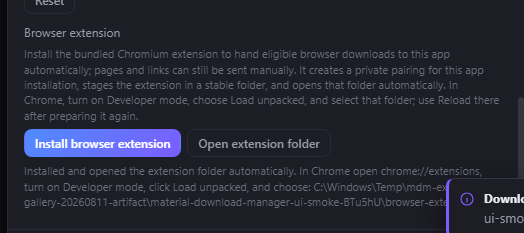
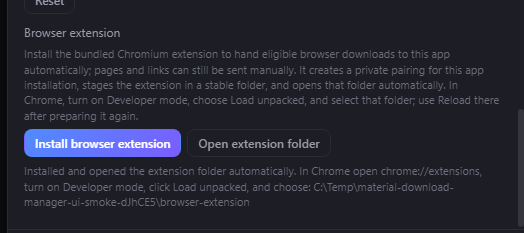
Refresh browser extension install capture
The browser-extension install/reveal HuiShot now comes from the final 42-check hidden-desktop run, with a generic temporary path instead of a user profile path. README, HANDOFF, CHANGELOG, and the captured artifact carry the same 524×233 hash so the install card is no longer an old photograph wearing a new caption.

廣東話：browser extension 安裝卡終於用返最新真機相，畫面入面只見通用 temp 路徑，唔會偷帶使用者名字；文件同 PNG hash 而家一齊對得上，舊相正式收工。

Changed region(s): [[0.0305, 0.7511, 1.0, 1.0], [0.9771, 0.4206, 1.0, 0.4807]]

diff --git a/HANDOFF.md b/HANDOFF.md
@@ -27,6 +27,13 @@ PNG bytes emitted by that run. Six are 1100×900 and the narrow builder frame is
[2 lines of base64/hex data omitted]
 
+The same landed smoke run also recaptured the browser-extension install/reveal
+card at [`docs/screenshots/browser-extension/settings-install-and-reveal.png`](docs/screenshots/browser-extension/settings-install-and-reveal.png).
+It is a 524×233 PNG with SHA-256
[1 lines of base64/hex data omitted]
+temporary staging path was rooted at a generic `C:\Temp` folder so no user
+name appears in the published image.
+
 The smoke process tree, disposable profile, and named headless desktop were
 cleaned after the run; the final desktop inventory reported zero entries. The
 negative export probes intentionally emit invalid-format diagnostics while the

diff --git a/CHANGELOG.md b/CHANGELOG.md
@@ -17,6 +17,10 @@ of guessing a commit, release, or date.
 - **Gallery:** all seven auto-organize PNGs were replaced from that run; six
   are 1100×900 and one is 520×760. Per-file hashes are recorded in
   [`HANDOFF.md`](HANDOFF.md).
+- **Install/reveal capture:** the browser-extension card was recaptured from
+  the same run as a 524×233 PNG, SHA-256
[1 lines of base64/hex data omitted]
+  a generic temporary staging path and no user name in the image.
 - **Cleanup:** the disposable app/profile/process tree and named headless
   desktop were removed; the final desktop inventory was zero.
 

diff --git a/README.md b/README.md
@@ -136,7 +136,9 @@ requires **Developer mode → Load unpacked** for this off-store installation.
 
 This is a fresh built-artifact crop of the install-and-reveal card. The
 temporary staging path uses a generic system temporary folder so no user name
-is present in the published image.
+is present in the published image. It came from the same landed 42/42 smoke
+run as the gallery; the 524×233 PNG has SHA-256
[1 lines of base64/hex data omitted]
 
 Each stable extension ZIP receives the reserved release version in its staged
 `manifest.json`. Packaging validates that the archive has its manifest and
